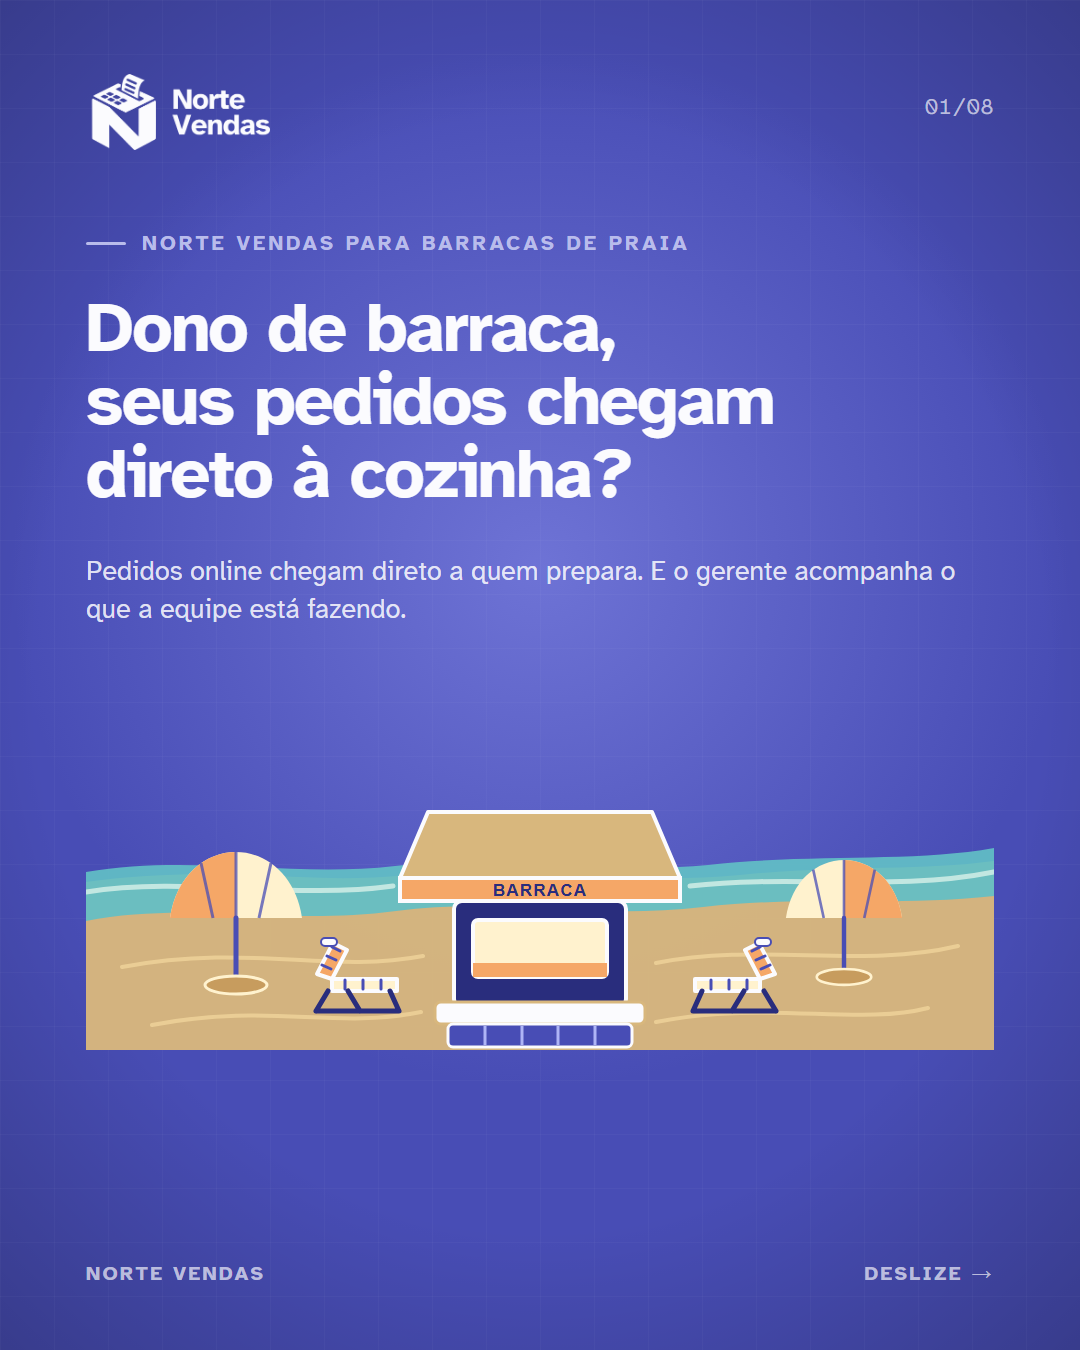
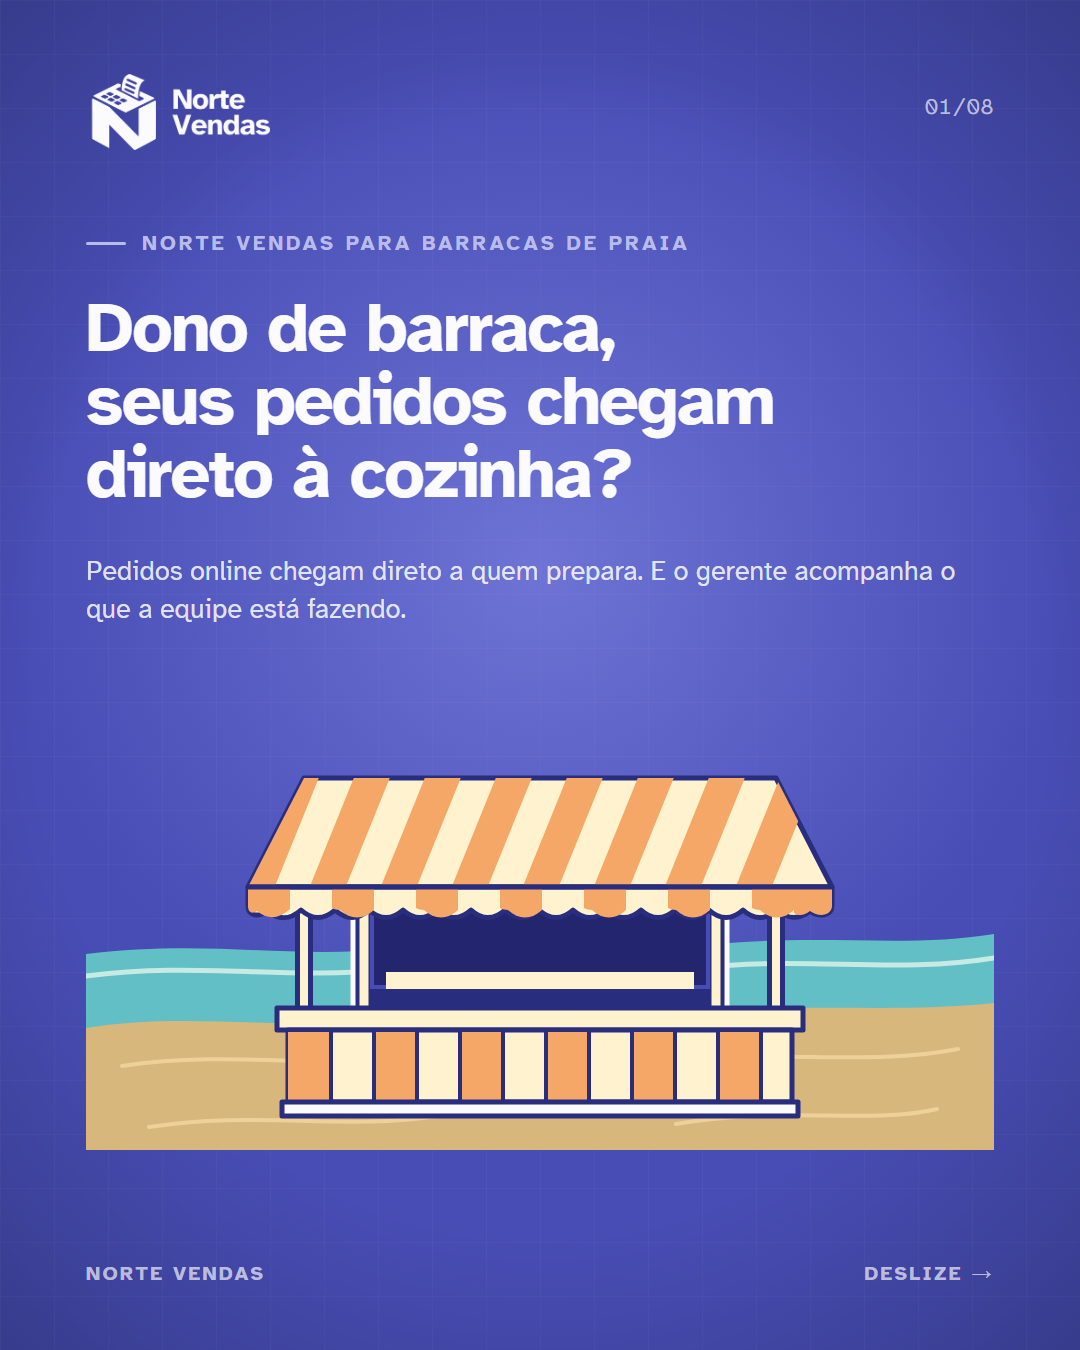
Refine beach kiosk cover illustration

Changed region(s): [[0.0611, 0.56, 0.9472, 0.8711]]

diff --git a/src/templates/NorteVendasBarracaPraia.tsx b/src/templates/NorteVendasBarracaPraia.tsx
@@ -69,53 +69,41 @@ const PhoneFrame: React.FC = () => (
 );
 
 const BeachStandHero: React.FC = () => (
-  <svg width="100%" height="100%" viewBox="0 0 908 280" fill="none" xmlns="http://www.w3.org/2000/svg" aria-label="Ilustração de uma barraca de praia em funcionamento" style={{display: 'block'}}>
-    <path d="M0 112C135 93 216 116 321 105C431 94 538 116 654 105C754 95 832 101 908 91V280H0V112Z" fill="#D8B77D" opacity=".97" />
-    <path d="M0 102C104 84 207 108 309 96C415 83 521 105 622 95C729 83 825 93 908 78V126C805 137 723 125 617 137C504 150 415 127 310 141C198 156 101 131 0 151V102Z" fill="#62BFC5" opacity=".92" />
-    <path d="M0 122C99 106 207 130 307 116M604 116C709 104 809 122 908 102" stroke="#D8F1E9" strokeWidth="5" strokeLinecap="round" opacity=".8" />
-    <path d="M36 197C164 173 243 204 337 186M570 193C674 172 775 199 872 176M66 255C184 232 247 260 335 242M570 252C681 230 772 256 842 238" stroke="#F3D99E" strokeWidth="4" strokeLinecap="round" opacity=".7" />
+  <svg width="100%" height="100%" viewBox="0 0 908 420" fill="none" xmlns="http://www.w3.org/2000/svg" aria-label="Barraca de praia com toldo listrado" style={{display: 'block'}}>
+    <defs>
+      <clipPath id="beach-stand-awning"><path d="M218 48H690L746 157H162L218 48Z" /></clipPath>
+    </defs>
+    <path d="M0 238C113 222 203 245 310 233C416 221 510 244 615 231C721 218 815 236 908 219V420H0V238Z" fill="#D8B77D" />
+    <path d="M0 224C124 209 204 230 313 218C419 206 507 229 614 216C728 202 818 219 908 204V273C802 284 721 271 614 284C508 297 412 276 308 289C199 302 102 281 0 298V224Z" fill="#62BFC5" />
+    <path d="M0 246C112 231 199 251 306 239M614 238C717 226 813 244 908 228" stroke="#D8F1E9" strokeWidth="5" strokeLinecap="round" opacity=".85" />
+    <path d="M36 336C152 319 236 341 334 326M574 335C681 316 775 338 872 319M63 397C170 380 256 401 352 386M590 394C699 375 785 395 851 379" stroke="#F3D99E" strokeWidth="4" strokeLinecap="round" opacity=".78" />
 
-    <g transform="translate(150 148)" data-scene-object="beach-umbrella">
-      <path d="M-66 0C-60-42-31-66 0-66C31-66 60-42 66 0H-66Z" fill="#FFF2CE" />
-      <path d="M-66 0C-60-42-31-66 0-66V0H-66Z" fill="#F5A767" />
-      <path d="M0-66V0M-35-55L-23 0M35-55L23 0" stroke="#484DB5" strokeWidth="3" opacity=".75" />
-      <path d="M0 0V64M-22 66H22" stroke="#484DB5" strokeWidth="5" strokeLinecap="round" />
-      <ellipse cx="0" cy="67" rx="31" ry="9" fill="#C79C5E" stroke="#FFF2CE" strokeWidth="3" />
-    </g>
+    <g data-scene-object="beach-stall-front">
+      {/* Open kiosk body and simple serving window */}
+      <path d="M267 162H641V293H267Z" fill="#292D7D" stroke="#FBFBFE" strokeWidth="5" strokeLinejoin="round" />
+      <path d="M286 177H622V257H286Z" fill="#23266F" stroke="#484DB5" strokeWidth="4" />
+      <path d="M300 242H608V259H300Z" fill="#FFF2CE" />
+      <path d="M278 164V284M630 164V284" stroke="#FFF2CE" strokeWidth="9" />
 
-    <g transform="translate(758 148) scale(.88)" data-scene-object="beach-umbrella">
-      <path d="M-66 0C-60-42-31-66 0-66C31-66 60-42 66 0H-66Z" fill="#FFF2CE" />
-      <path d="M0-66C31-66 60-42 66 0H0V-66Z" fill="#F5A767" />
-      <path d="M0-66V0M-35-55L-23 0M35-55L23 0" stroke="#484DB5" strokeWidth="3" opacity=".75" />
-      <path d="M0 0V64M-22 66H22" stroke="#484DB5" strokeWidth="5" strokeLinecap="round" />
-      <ellipse cx="0" cy="67" rx="31" ry="9" fill="#C79C5E" stroke="#FFF2CE" strokeWidth="3" />
-    </g>
+      {/* Two slim supports make the striped canopy read as a real beach kiosk */}
+      <path d="M218 144V290M690 144V290" stroke="#292D7D" strokeWidth="18" strokeLinecap="round" />
+      <path d="M218 144V290M690 144V290" stroke="#FFF2CE" strokeWidth="8" strokeLinecap="round" />
 
-    <g transform="translate(270 208)" data-furniture="sun-lounger">
-      <path d="M-39-4L-23-35L-9-28L-24 1Z" fill="#F5A767" stroke="#FBFBFE" strokeWidth="4" strokeLinejoin="round" />
-      <path d="M-24 1H41V13H-24Z" fill="#FFF2CE" stroke="#FBFBFE" strokeWidth="4" strokeLinejoin="round" />
-      <path d="M-34-13L-25-9M-29-22L-20-18M-24-31L-16-27M-11 2V11M7 2V11M25 2V11" stroke="#484DB5" strokeWidth="3" strokeLinecap="round" />
-      <path d="M-28 13L-40 33M34 13L43 33M-40 33H43M-8 13L4 33" stroke="#292D7D" strokeWidth="5" strokeLinecap="round" />
-      <rect x="-35" y="-40" width="16" height="8" rx="4" fill="#FBFBFE" stroke="#484DB5" strokeWidth="2" />
-    </g>
-    <g transform="translate(650 208) scale(-1 1)" data-furniture="sun-lounger">
-      <path d="M-39-4L-23-35L-9-28L-24 1Z" fill="#F5A767" stroke="#FBFBFE" strokeWidth="4" strokeLinejoin="round" />
-      <path d="M-24 1H41V13H-24Z" fill="#FFF2CE" stroke="#FBFBFE" strokeWidth="4" strokeLinejoin="round" />
-      <path d="M-34-13L-25-9M-29-22L-20-18M-24-31L-16-27M-11 2V11M7 2V11M25 2V11" stroke="#484DB5" strokeWidth="3" strokeLinecap="round" />
-      <path d="M-28 13L-40 33M34 13L43 33M-40 33H43M-8 13L4 33" stroke="#292D7D" strokeWidth="5" strokeLinecap="round" />
-      <rect x="-35" y="-40" width="16" height="8" rx="4" fill="#FBFBFE" stroke="#484DB5" strokeWidth="2" />
-    </g>
+      {/* Broad, restrained striped fabric awning */}
+      <path d="M218 48H690L746 157H162L218 48Z" fill="#FFF2CE" stroke="#292D7D" strokeWidth="5" strokeLinejoin="round" />
+      <g clipPath="url(#beach-stand-awning)">
+        <path d="M200 40H236L185 166H149L200 40ZM271 40H307L256 166H220L271 40ZM342 40H378L327 166H291L342 40ZM413 40H449L398 166H362L413 40ZM484 40H520L469 166H433L484 40ZM555 40H591L540 166H504L555 40ZM626 40H662L611 166H575L626 40ZM697 40H733L682 166H646L697 40Z" fill="#F5A767" />
+      </g>
+      <path d="M162 157H746V176C746 184 735 189 724 181C713 190 701 189 691 180C680 190 668 190 657 180C646 190 634 190 623 180C612 190 600 190 589 180C578 190 566 190 555 180C544 190 532 190 521 180C510 190 498 190 487 180C476 190 464 190 453 180C442 190 430 190 419 180C408 190 396 190 385 180C374 190 362 190 351 180C340 190 328 190 317 180C306 190 294 190 283 180C272 190 260 190 249 180C238 190 226 190 215 180C204 190 192 190 181 181C170 189 162 184 162 176V157Z" fill="#FFF2CE" stroke="#292D7D" strokeWidth="5" strokeLinejoin="round" />
+      <path d="M162 157H204V179C193 189 182 190 171 181C165 185 162 181 162 176V157ZM246 157H288V180C277 190 265 190 254 180C251 180 248 179 246 178V157ZM330 157H372V180C361 190 349 190 338 180C335 180 332 179 330 178V157ZM414 157H456V180C445 190 433 190 422 180C419 180 416 179 414 178V157ZM498 157H540V180C529 190 517 190 506 180C503 180 500 179 498 178V157ZM582 157H624V180C613 190 601 190 590 180C587 180 584 179 582 178V157ZM666 157H708V180C697 190 685 190 674 180C671 180 668 179 666 178V157ZM708 157H746V176C746 184 735 189 724 181C718 186 712 186 708 183V157Z" fill="#F5A767" />
+      <path d="M162 157H746" stroke="#292D7D" strokeWidth="5" />
 
-    <g transform="translate(454 162)" data-scene-object="beach-stall-front">
-      <path d="M-140-54L-112-120H112L140-54Z" fill="#D8B77D" stroke="#FBFBFE" strokeWidth="4" strokeLinejoin="round" data-roof="plain-awning" />
-      <path d="M-140-54H140V-31H-140Z" fill="#F5A767" stroke="#FBFBFE" strokeWidth="4" />
-      <text x="0" y="-36" textAnchor="middle" fontFamily="Arial, sans-serif" fontSize="17" fontWeight="700" letterSpacing="1.2" fill="#292D7D">BARRACA</text>
-      <rect x="-86" y="-31" width="172" height="106" rx="8" fill="#292D7D" stroke="#FBFBFE" strokeWidth="4" />
-      <rect x="-67" y="-12" width="134" height="57" rx="5" fill="#FFF2CE" stroke="#FBFBFE" strokeWidth="4" />
-      <rect x="-67" y="31" width="134" height="14" fill="#F5A767" />
-      <rect x="-105" y="70" width="210" height="22" rx="6" fill="#FBFBFE" stroke="#D8B77D" strokeWidth="3" />
-      <rect x="-92" y="92" width="184" height="23" rx="5" fill="#484DB5" stroke="#FBFBFE" strokeWidth="3" />
-      <path d="M-55 94V113M-18 94V113M18 94V113M55 94V113" stroke="#AEB4F6" strokeWidth="3" />
+      {/* Counter: clear front face, restrained panel rhythm */}
+      <path d="M191 278H717V300H191Z" fill="#FFF2CE" stroke="#292D7D" strokeWidth="5" strokeLinejoin="round" />
+      <path d="M202 300H706V372H202Z" fill="#FFF2CE" stroke="#292D7D" strokeWidth="5" strokeLinejoin="round" />
+      <path d="M202 302H245V370H202ZM288 302H331V370H288ZM374 302H417V370H374ZM460 302H503V370H460ZM546 302H589V370H546ZM632 302H675V370H632Z" fill="#F5A767" />
+      <path d="M245 302V370M288 302V370M331 302V370M374 302V370M417 302V370M460 302V370M503 302V370M546 302V370M589 302V370M632 302V370M675 302V370" stroke="#292D7D" strokeWidth="4" />
+      <path d="M196 372H712V386H196Z" fill="#FBFBFE" stroke="#292D7D" strokeWidth="5" strokeLinejoin="round" />
     </g>
   </svg>
 );
@@ -192,7 +180,7 @@ const CoverScene: React.FC = () => {
     <p style={{position: 'absolute', left: PAD, top: 552, width: 890, margin: 0, fontFamily: SANS, fontSize: 27, lineHeight: 1.42, color: 'rgba(251,251,254,.86)'}}>
       Pedidos online chegam direto a quem prepara. E o gerente acompanha o que a equipe está fazendo.
     </p>
-    <div style={{position: 'absolute', left: PAD, top: 770, width: 908, height: 280}}><BeachStandHero /></div>
+    <div style={{position: 'absolute', left: PAD, top: 730, width: 908, height: 420}}><BeachStandHero /></div>
     <Foot tone="product" />
   </AbsoluteFill></Produto>;
 };

diff --git a/conteudo ntb/02-carrosseis/Norte Vendas - Barraca de Praia/LEIA-ME.md b/conteudo ntb/02-carrosseis/Norte Vendas - Barraca de Praia/LEIA-ME.md
@@ -4,7 +4,7 @@ Carrossel de oito slides para donos de barracas. A narrativa parte do gancho apr
 
 ## Ordem dos slides
 
-1. Capa estática, no fundo azul quadriculado, com uma ilustração vetorial da barraca em funcionamento no lugar do antigo conector de ícones. A copy permanece em revisão separada.
+1. Capa estática, no fundo azul quadriculado, com barraca vetorial de balcão aberto e toldo listrado em creme e laranja, seguindo a referência aprovada. A copy permanece em revisão separada.
 2. Atendimento por toda a barraca, em fundo escuro, com uma ilustração estática vista de cima que mostra as mesas distribuídas e a cozinha. Sem notebook nem captura de sistema.
 3. Capturas oficiais de Mesas & Comandas no notebook e na tela mobile, lado a lado e com entradas em momentos diferentes.
 4. Animação do pedido registrado seguindo online até a cozinha.
